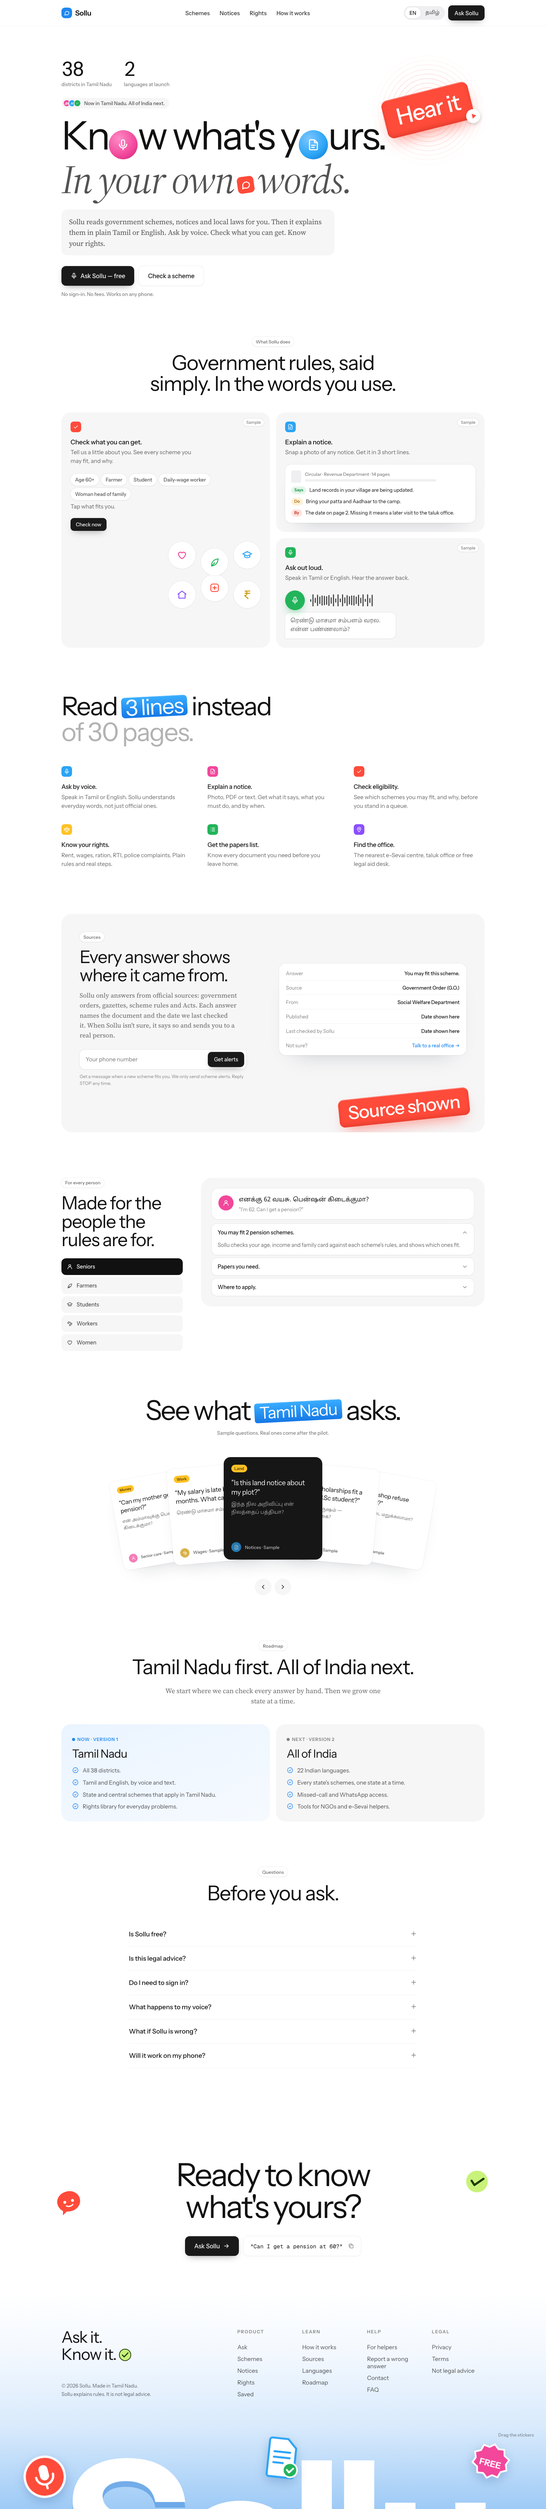
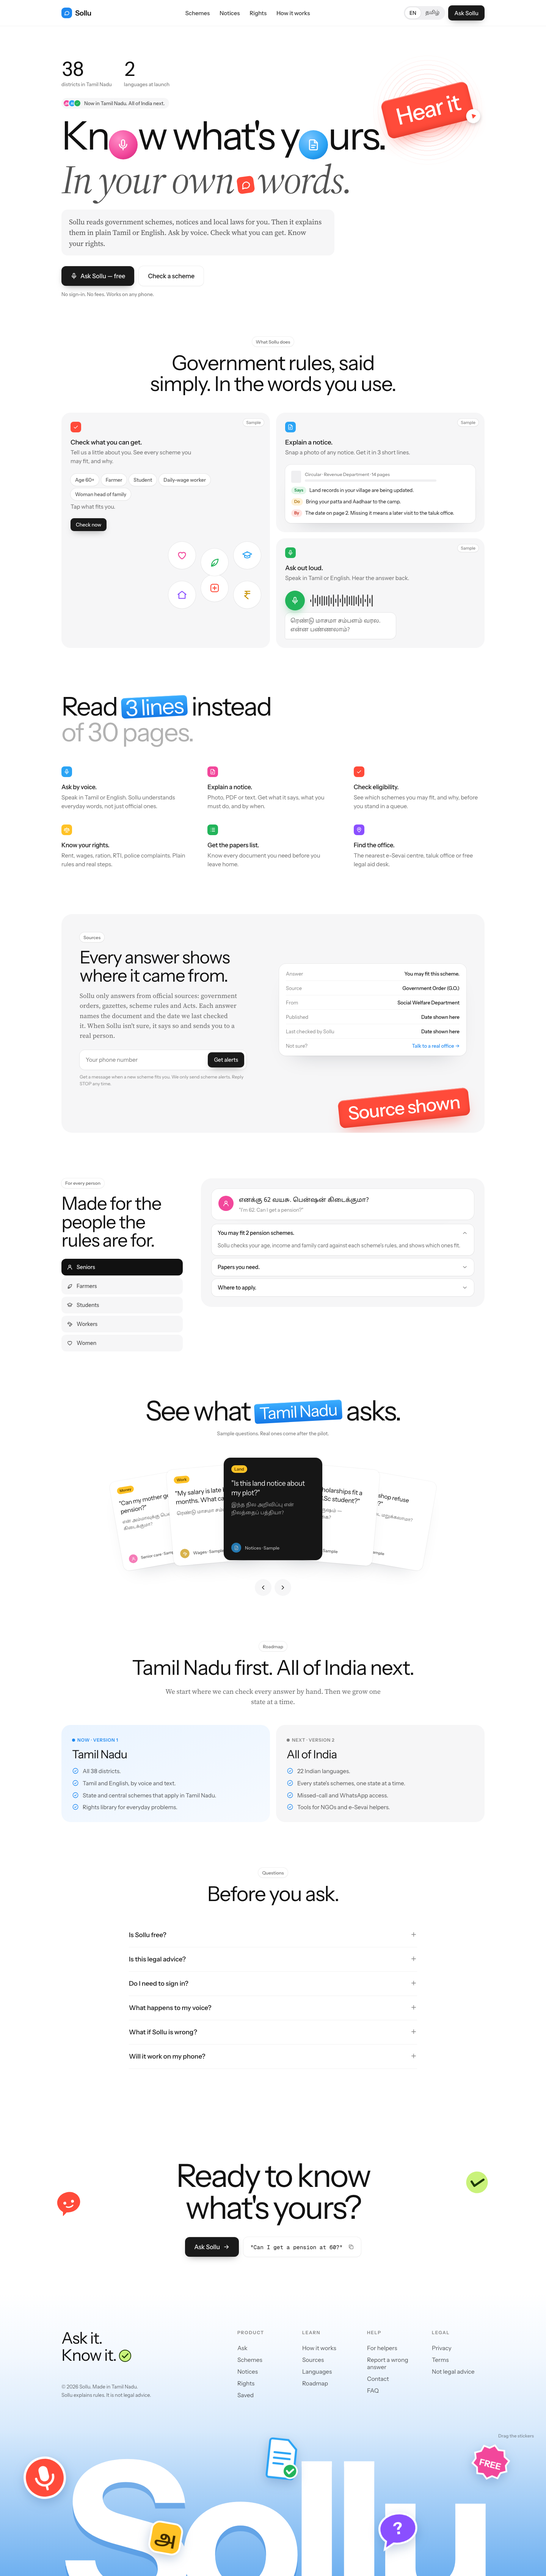
Write a new README and add the MIT license
The README now has a big banner, badges, pictures of the page, a
list of what is real today, a chart of how Sollu will answer, design
notes, a roadmap and an AI use statement. The code now uses the MIT
license. The full-page screenshot now shows the whole footer.

diff --git a/README.md b/README.md
@@ -1,46 +1,226 @@
-# Sollu
+<div align="center">
 
-Sollu (சொல்லு, "say it") reads government schemes, notices and local laws. Then it explains them in plain Tamil or English. You can ask by voice, check what you can get, and learn your rights.
+<a href="https://sollu-ai.vercel.app"><img src="docs/footer.png" alt="Sollu wordmark in giant white letters on a blue fade, with stickers around it" width="100%"></a>
 
-- **Version 1:** Tamil Nadu. 38 districts. Tamil and English.
-- **Version 2:** All of India. 22 languages.
+### Know what's yours. *In your own words.*
 
-**Live site:** https://sollu-ai.vercel.app
+உங்களுக்கு உரியதை தெரிஞ்சுக்கோங்க — உங்க சொந்த வார்த்தையில.
 
-This repo is the landing page. The product flow, word rules and copy for every page are in [FLOW.md](FLOW.md).
+[![Live site](https://img.shields.io/badge/live-sollu--ai.vercel.app-1E88F0?style=flat-square&logo=vercel&logoColor=white)](https://sollu-ai.vercel.app)
+[![TypeScript](https://img.shields.io/badge/TypeScript-strict-3178C6?style=flat-square&logo=typescript&logoColor=white)](tsconfig.json)
+[![React 19](https://img.shields.io/badge/React-19-149ECA?style=flat-square&logo=react&logoColor=white)](package.json)
+[![Vite](https://img.shields.io/badge/Vite-8-646CFF?style=flat-square&logo=vite&logoColor=white)](vite.config.ts)
+[![Made in Tamil Nadu](https://img.shields.io/badge/made%20in-Tamil%20Nadu-FF4B3A?style=flat-square)](#roadmap)
+[![License: MIT](https://img.shields.io/badge/license-MIT-22B45A?style=flat-square)](LICENSE)
+
+**[▶ See it live](https://sollu-ai.vercel.app)** · [Why Sollu](#why-sollu) · [What's real today](#whats-real-today) · [Run it](#run-it) · [Design notes](#design-notes) · [Roadmap](#roadmap) · [AI use](#ai-use-and-responsibility)
+
+</div>
+
+<br>
+
+**Sollu** (சொல்லு, *"say it"*) reads government schemes, notices and local laws. Then it explains them in plain Tamil or English. You can ask by voice, check what you can get, and learn your rights.
+
+It starts in **Tamil Nadu**. Then it grows to **all of India**, one state at a time.
+
+<p align="center">
+  <a href="https://sollu-ai.vercel.app"><img src="docs/hero.png" alt="Sollu landing page hero: 'Know what's yours. In your own words.' with a tilted red 'Hear it' sticker" width="100%"></a>
+</p>
+
+## Why Sollu
+
+The rules that decide what people get from the government are written in a language most people don't read. Long PDFs. Legal English. Formal Tamil. G.O. numbers.
+
+So a 62-year-old who could get a pension often doesn't know it. A farmer gets a notice and can't tell if it's about their land. A worker whose pay is late doesn't know they can complain for free. Many people end up paying a middleman just to read a page.
+
+Sollu's job is simple: **read the rule for you, then say it the way you'd say it.**
+
+## What it does
+
+Each action has one plain verb. We never swap it for a fancier word.
+
+| | Verb | What you do | What you get |
+|:-:|---|---|---|
+| 🎙 | **Ask** | Speak in Tamil or English | An answer in your words, read aloud |
+| ✅ | **Check** | Answer 5 quick questions | Every scheme you may fit, and why |
+| 📄 | **Explain** | Snap a photo of a notice | What it says, what to do, and by when, in 3 lines |
+| ⚖ | **Know** | Ask about rent, wages, ration or police | The plain rule and what you can do today |
+| 📋 | **Find** | Ask where to go | The papers you need and the nearest office |
+
+<p align="center">
+  <img src="docs/bento.png" alt="Three demo cards: Check what you can get, Explain a notice, and Ask out loud" width="100%">
+</p>
+
+## What's real today
+
+I'd rather show you an honest list than a big promise.
+
+| Part | Status |
+|---|---|
+| Landing page (English + Tamil, phone + desktop) | ✅ Live at [sollu-ai.vercel.app](https://sollu-ai.vercel.app) |
+| Product plan, user flows and copy for every page | ✅ Done, in [FLOW.md](FLOW.md) |
+| "Hear it" button that reads a sample answer aloud | ✅ Works, using your browser's own voice |
+| The AI helper that answers real questions | 🟠 Not built yet |
+| Scheme data checked against the source G.O.s | 🟠 Not started |
+
+Every demo card on the page says **Sample**. There are no fake users, ratings or testimonials. Real ones come after the pilot.
+
+## How Sollu will answer
+
+This is the plan for the AI helper. It isn't built yet.
+
+```mermaid
+flowchart LR
+    A["🎙 You ask<br/>Tamil or English"] --> B["📚 Find the official source<br/>G.O., gazette, Act"]
+    B --> C{"Sure about<br/>the answer?"}
+    C -- yes --> D["✍ Say it in 3 short lines"]
+    D --> E["🔗 Show the source<br/>and the date checked"]
+    C -- no --> F["🏢 Say so, and point you<br/>to a real office"]
+```
+
+Three rules sit under every answer:
+
+1. **Show the source.** Every answer names its document and the date we last checked it.
+2. **Say "I'm not sure".** When it isn't sure, it says so and sends you to a person.
+3. **Not legal advice.** For a legal case, it connects you to free legal aid.
 
 ## Run it
 
+You need Node 20.19+ or 22.12+.
+
 ```bash
+git clone https://github.com/rmagdaleena2508-01/Sollu.git
+cd Sollu
 npm install
-npm run dev        # http://localhost:5173 (or the port Vite prints)
-npm run build      # type check + production build into dist/
+npm run dev
 ```
 
-## How it's built
+Then open the address Vite prints (usually `http://localhost:5173`).
 
-- **TypeScript + React 19 + Vite.** No UI library. Plain CSS in `src/styles.css`.
-- **All copy** lives in `src/content.ts`, typed. Change words there, not in components.
-- **Sections** live in `src/components/`: `Nav`, `Hero`, `WhatItDoes`, `Sections` (features, trust, roadmap, FAQ), `Personas`, `SampleFan`, `Footer` (final CTA, footer, draggable stickers).
-- **Icons** are one inline SVG sprite (`src/components/Icon.tsx`) and recolour with `currentColor`.
-- **Stickers** are hand-drawn SVGs in `Footer.tsx`. Drag them around the footer.
-- **"Hear it"** uses the browser's own speech voice (Web Speech API). There's no audio file.
-- `prototype/index.html` is the first single-file HTML version. The React app matches it pixel for pixel.
+```bash
+npm run build      # strict type check + production build into dist/
+```
 
-## Open-source credits
+<details>
+<summary><b>Project map</b></summary>
 
-| What | Source | License |
+<br>
+
+```text
+sollu/
+├── src/
+│   ├── content.ts        ← every word on the page, typed. Change copy here.
+│   ├── hooks.ts          ← language, voice, reveal-on-scroll, reduced motion
+│   ├── styles.css        ← one stylesheet with design tokens on :root
+│   ├── App.tsx
+│   └── components/
+│       ├── Nav.tsx           EN / தமிழ் switch
+│       ├── Hero.tsx          icons inside the headline + "Hear it" sticker
+│       ├── WhatItDoes.tsx    Check · Explain · Ask demo cards
+│       ├── Sections.tsx      features, sources, roadmap, FAQ
+│       ├── Personas.tsx      seniors, farmers, students, workers, women
+│       ├── SampleFan.tsx     fanned stack of sample questions
+│       ├── Footer.tsx        blue fade, giant wordmark, draggable stickers
+│       └── Icon.tsx          one SVG sprite, recolours with currentColor
+├── prototype/index.html  ← the first single-file version
+├── FLOW.md               ← sitemap, user flows, word rules, all page copy
+└── docs/                 ← images for this README
+```
+
+</details>
+
+## Design notes
+
+These are the choices that make Sollu feel like Sollu.
+
+**Plain words, always.** The copy reads at a third-grade level. Short sentences. Numbers as digits. Banned words: *empower, leverage, unlock, seamless, cutting-edge.* If a word needs explaining, it's the wrong word.
+
+**Two voices.** A sans font ([Instrument Sans](https://fonts.google.com/specimen/Instrument+Sans)) *announces*: headlines and buttons. A serif ([Source Serif 4](https://fonts.google.com/specimen/Source+Serif+4)) *explains*: the longer lines. [Noto Sans Tamil](https://fonts.google.com/noto/specimen/Noto+Sans+Tamil) carries every Tamil line.
+
+**Voice first, text always.** The mic gets the biggest button. Every answer can be heard *and* read.
+
+**Playful where it's safe, calm where it matters.** The stickers and the giant wordmark are there to make a government topic feel friendly. The parts about money and rights stay calm and clear.
+
+**Motion that gets out of the way.** Things rise in once, then stop. Buttons press down a little when tapped. If your phone asks for less motion, the page listens.
+
+**Honest by default.** Sample UI is labelled "Sample". Nothing on the page claims users we don't have.
+
+<details>
+<summary><b>Where the look came from</b></summary>
+
+<br>
+
+- **Layout ideas:** a lead-generation landing page shot on Dribbble. From it came the big numbers, the icons inside the headline letters, the tilted stickers, the bento cards and the fanned card stack.
+- **Footer idea:** [stickitupx.com](https://stickitupx.com). From it came the giant white wordmark on a blue fade with stickers you can drag.
+- No art or code was copied from either. The stickers and icons are drawn as SVG in this repo.
+
+</details>
+
+## Roadmap
+
+**Version 1 — Tamil Nadu**
+
+- [x] Landing page in English and Tamil
+- [x] Product flow and copy for every page ([FLOW.md](FLOW.md))
+- [ ] Ask screen with voice in and voice out
+- [ ] Scheme check: 5 questions → schemes you may fit
+- [ ] Explain a notice from a photo or PDF
+- [ ] Rights library for everyday problems
+- [ ] Source card on every answer
+- [ ] Pilot with real people, then replace the samples with real stories (with consent)
+
+**Version 2 — All of India**
+
+- [ ] 22 Indian languages
+- [ ] Every state's schemes, one state at a time
+- [ ] Missed-call and WhatsApp access
+- [ ] Tools for NGOs and e-Sevai helpers
+
+## Help wanted
+
+The most useful help isn't code.
+
+- **Tamil speakers:** read the Tamil lines and tell me where they sound stiff or wrong.
+- **People who work with schemes** (e-Sevai operators, NGO staff, ward volunteers): tell me which questions people actually ask.
+- **Developers:** issues and pull requests are welcome. Please keep the copy plain and the claims honest.
+
+## Credits
+
+| What | Where it's from | License |
 |---|---|---|
-| Instrument Sans | Fontsource (`@fontsource/instrument-sans`) | SIL OFL 1.1 |
-| Noto Sans Tamil | Fontsource (`@fontsource/noto-sans-tamil`) | SIL OFL 1.1 |
-| Source Serif 4 | Fontsource (`@fontsource-variable/source-serif-4`) | SIL OFL 1.1 |
-| Geist Mono | Fontsource (`@fontsource/geist-mono`) | SIL OFL 1.1 |
+| Instrument Sans, Noto Sans Tamil, Source Serif 4, Geist Mono | [Fontsource](https://fontsource.org) | SIL OFL 1.1 |
 | React, Vite, TypeScript | npm | MIT / Apache-2.0 |
+| Badges | [shields.io](https://shields.io) | CC0 |
 
-Design references: a FluentAI landing page shot on Dribbble (layout ideas) and stickitupx.com (footer idea). No art or code was copied from either.
+## AI use and responsibility
 
-## Honest-content rules
+In creating this project, I collaborated with **Claude Code (Anthropic's Claude Opus 5.5)**, the only AI tool I used, to assist with research, writing code, finding and fixing bugs, and drafting documentation.
 
-- No fake users, ratings or testimonials. Every demo card says "Sample".
-- No scheme amounts or rules on the page until they're checked against the source G.O.
-- Sollu explains rules. It is not legal advice.
+**What I did myself:** I came up with the idea: an AI that explains government notices, schemes and local laws in plain language and regional languages, starting with Tamil Nadu and then all of India. I picked the two design references (the Dribbble landing page and the Stick It Up footer) and asked for the same white wordmark and blue fade. I asked for the step-by-step flow and for words chosen carefully so the product is clear. I looked at other names and chose to keep "Sollu". I asked for the TypeScript rebuild to match the first version pixel for pixel, chose the public repo, and picked the sollu-ai.vercel.app address.
+
+**What the AI helped with:**
+
+- Writing the product flow, sitemap, word rules and page copy in FLOW.md, based on my brief
+- Designing and building the first HTML version, then the TypeScript and React version
+- Drawing the SVG stickers and icons, and picking open-source fonts
+- Suggesting names, with their meanings and risks
+- Running checks: type checks, builds, screenshots, a pixel-by-pixel compare between the two versions, and phone-size tests
+- Setting up GitHub and Vercel, and drafting this README and the commit messages, which I then edited and approved
+
+**How I reviewed it:** I looked at the screenshots at each step and gave direction, like asking for the footer to match my reference and for the TypeScript version to match the first one exactly. The TypeScript version was compared to the first version with a screenshot diff before it shipped. Anything not built yet is marked 🟠 in [What's real today](#whats-real-today), and every demo card on the site is labelled "Sample".
+
+I affirm that all AI-generated and co-created content underwent thorough review and evaluation. The final output accurately reflects my understanding, expertise, and intended meaning. While AI assistance was instrumental in the process, I maintain full responsibility for the content, its accuracy, and its presentation.
+
+**Context:** This is a personal portfolio project and an early product idea. It is not a school assignment, not a product of any company, and not a government service. The scheme examples on the site are samples, not checked facts. This disclosure is made in the spirit of transparency and to acknowledge the role of AI in the creation process.
+
+## License
+
+[MIT](LICENSE) for the code. You can use it, change it and share it. Just keep the license file. The fonts keep their own licenses.
+
+<br>
+
+<div align="center">
+
+**Ask it. Know it.** · Made in Tamil Nadu · சொல்லு
+
+</div>
